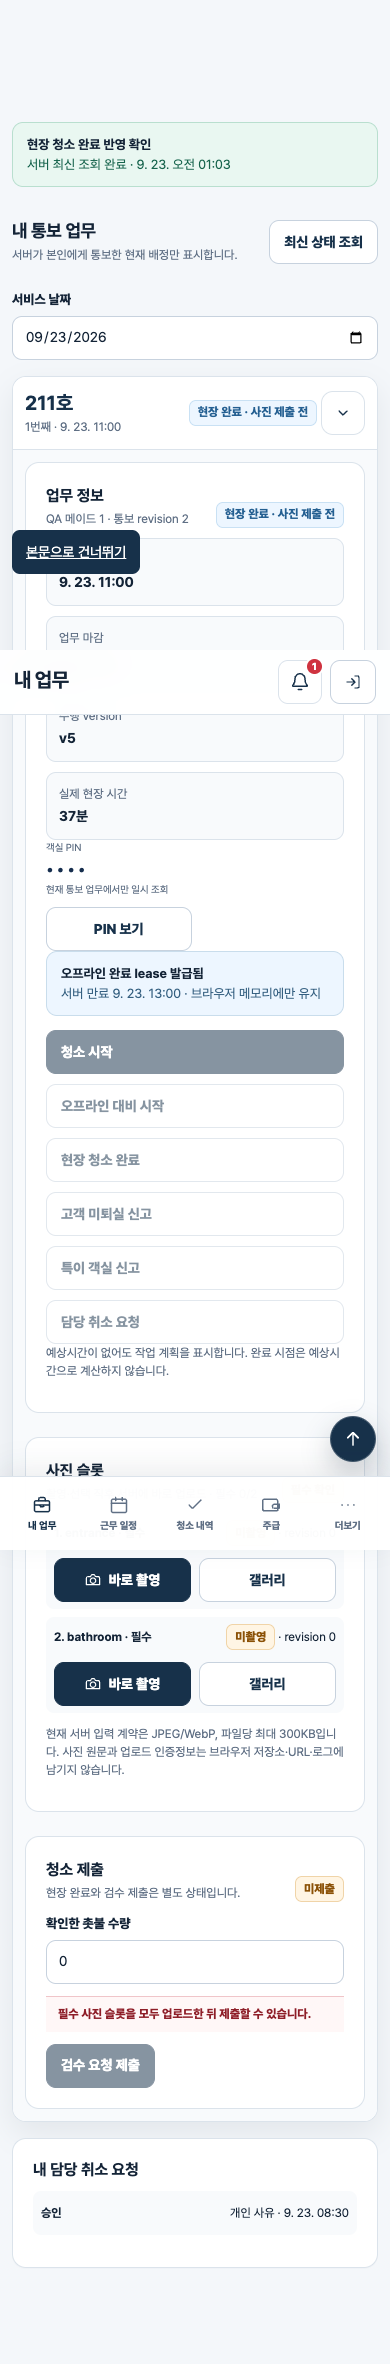
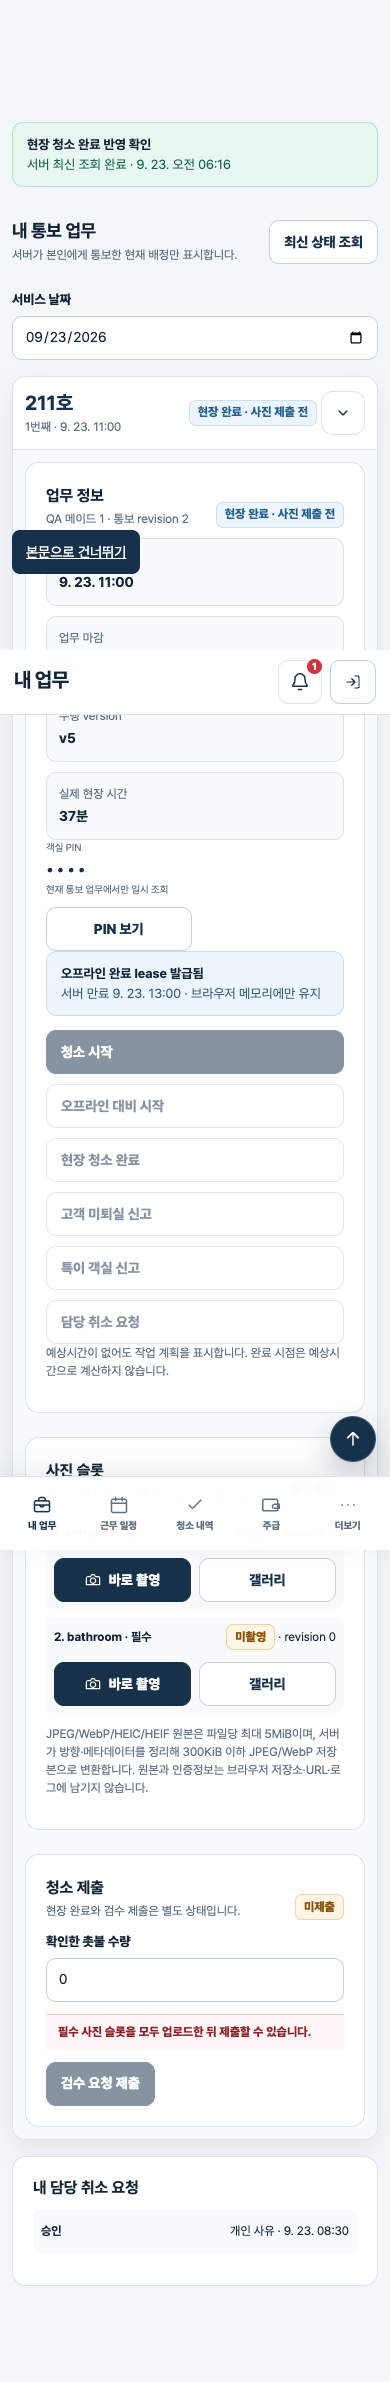
기능: 스마트폰 원본 사진 업로드 연결

diff --git a/WIREFRAME/index.html b/WIREFRAME/index.html
@@ -8729,6 +8729,8 @@
       const CLEANING_CHANGE_REASON_LABELS=Object.freeze({PERSONAL_REASON:'개인 사유',HEALTH_REASON:'건강 사유',MAID_UNAVAILABLE:'담당 불가',OPERATIONAL_CHANGE:'운영 변경',APPROVED:'관리자 승인',REJECTED:'관리자 거절'});
       const CLEANING_SUBMISSION_STATUS_LABELS=Object.freeze({submitted:'검수 요청됨',superseded:'이전 제출',approved:'검수 승인',rejected:'반려'});
       const CLEANING_PHOTO_STATUS_LABELS=Object.freeze({missing:'미촬영',cleared:'재촬영 필요',verified:'업로드 확인',pending:'처리 중',failed:'업로드 실패',purged:'보관 만료',expired:'보관 만료'});
+      const CLEANING_PHOTO_INPUT_MAX_BYTES=5*1024*1024;
+      const CLEANING_PHOTO_INPUT_MIMES=Object.freeze(['image/jpeg','image/webp','image/heic','image/heif']);
       Object.assign(API_ERROR_COPY,{ASSIGNMENT_ACCESS_REQUIRED:'청소 배정 관리 권한이 없습니다.',ATTEMPT_ACCESS_REQUIRED:'본인에게 통보된 작업만 확인할 수 있습니다.',MAID_REQUIRED:'메이드 계정으로만 수행할 수 있습니다.',ASSIGNMENT_NOT_NOTIFIED:'아직 통보되지 않은 배정은 시작할 수 없습니다.',ATTEMPT_INVALID_TRANSITION:'현재 작업 상태에서는 이 동작을 수행할 수 없습니다.',ATTEMPT_ACTIVATION_NOT_ALLOWED:'현재 작업은 시작할 수 없습니다.',CLEANING_SERVICE_DATE_NOT_DUE:'아직 이 작업의 서비스 날짜가 아닙니다.',CLEANING_SERVICE_DATE_EXPIRED:'작업 가능 날짜가 지났습니다. 관리자에게 일정을 확인해 주세요.',CLEANING_WINDOW_NOT_OPEN:'아직 청소 시작 가능 시각이 아닙니다.',CLEANING_WINDOW_EXPIRED:'업무 마감이 지나 새 상태 확인이 필요합니다.',CHECKOUT_NOT_MATERIALIZED:'체크아웃 상태가 확정되지 않아 작업을 시작할 수 없습니다.',ASSIGNMENT_IMPACT_CHANGED:'배정 확정 영향이 바뀌었습니다. 최신 영향을 다시 확인해 주세요.',ASSIGNMENT_DRAFT_STALE_SCHEDULE:'청소 일정이 바뀌었습니다. Preview부터 다시 확인해 주세요.',ASSIGNMENT_AVAILABILITY_STALE:'근무 가능일 version이 바뀌었습니다. 최신 상태를 다시 확인해 주세요.',ASSIGNMENT_MAID_UNAVAILABLE:'선택한 메이드는 해당 날짜에 근무할 수 없습니다.',ASSIGNMENT_COMMIT_NOT_ALLOWED:'현재 배정은 통보 확정할 수 없습니다.',ASSIGNMENT_PREVIEW_DURATION_POLICY_UNCONFIRMED:'예상시간 정책이 확정되지 않아 배정을 결정할 수 없습니다.',NOTIFICATION_ACCESS_REQUIRED:'이 알림을 확인할 권한이 없습니다.',NOTIFICATION_NOT_FOUND:'알림이 없거나 더 이상 접근할 수 없습니다.'});
       Object.assign(API_ERROR_COPY,{ASSIGNMENT_VERSION_CONFLICT:'배정 version이 바뀌었습니다. 최신 배정을 확인해 주세요.',ATTEMPT_VERSION_CONFLICT:'작업 수행 version이 바뀌었습니다. 최신 수행 상태를 확인해 주세요.',MAID_ALREADY_IN_PROGRESS:'이미 진행 중인 다른 작업이 있어 이 작업을 시작할 수 없습니다.',PREVIOUS_ROOM_WORKFLOW_ACTIVE:'같은 객실의 이전 작업이 아직 끝나지 않았습니다.',CLEANING_TARGET_NOT_FOUND:'청소 대상을 찾을 수 없습니다. 최신 계획을 확인해 주세요.',ASSIGNMENT_NOT_FOUND:'배정을 찾을 수 없습니다. 최신 목록을 확인해 주세요.',ASSIGNMENT_TARGET_STATE_INVALID:'현재 청소 대상 상태에서는 배정을 변경할 수 없습니다.',ASSIGNMENT_SEQUENCE_CONFLICT:'같은 담당자의 업무 순서가 충돌했습니다. 최신 순서를 확인해 주세요.',ASSIGNMENT_AVAILABILITY_REQUIRED:'담당자의 근무 가능일 제출이 필요합니다.',ASSIGNMENT_WINDOW_EXPIRED:'배정 작업 시간이 지나 최신 계획이 필요합니다.',PENDING_CHANGE_REQUEST_EXISTS:'이미 확인 대기 중인 담당 변경 요청이 있습니다.',CHANGE_REQUEST_NOT_FOUND:'담당 변경 요청이 없거나 더 이상 처리할 수 없습니다.',STALE_VERSION:'조회 뒤 서버 상태가 바뀌었습니다. 최신 내용을 다시 확인해 주세요.',CAPABILITY_ACCESS_REQUIRED:'현재 계정에 이 작업을 계속할 수행 권한이 없습니다.',ACCOUNT_EXECUTION_LIFECYCLE_REQUIRED:'계정 상태 변경 전에 진행 중 작업의 처리 방법을 결정해 주세요.',RECLEAN_MAID_IMMUTABLE:'재청소 담당자는 이 단계에서 변경할 수 없습니다.',INVALID_ATTEMPT_COMMAND:'현재 작업과 맞지 않는 수행 명령입니다.',ASSIGNMENT_PREVIEW_DATE_NOT_ALLOWED:'선택한 날짜는 배정 Preview를 만들 수 없습니다.',ASSIGNMENT_PREVIEW_LIMIT_EXCEEDED:'한 번에 계산할 수 있는 배정 대상을 초과했습니다.',CLEANING_TEMPLATE_NOT_CONFIGURED:'이 객실 유형의 청소 사진 슬롯이 아직 설정되지 않았습니다.',PIN_ENTITLEMENT_REQUIRED:'현재 통보된 본인 업무에서만 객실 PIN을 볼 수 있습니다.',PIN_ACCESS_REQUIRED:'현재 업무의 객실 PIN 조회 권한이 없습니다.',PIN_REVEAL_AUTHORIZATION_CHANGED:'PIN 조회 권한이 바뀌었습니다. 최신 업무를 다시 확인해 주세요.',ROOM_PIN_UNCONFIGURED:'이 객실에는 조회할 PIN이 아직 설정되지 않았습니다.',ROOM_PIN_MISMATCH_UNRESOLVED:'물리 도어락 PIN 확인이 끝난 뒤 조회할 수 있습니다.',ROOM_PIN_DECRYPT_FAILED:'객실 PIN을 안전하게 불러오지 못했습니다.'});
       const LIVE_CLEANING_PHOTO_URLS=new Set();
@@ -8795,8 +8797,8 @@
       function renderCleaningPhotoSlots(assignment,attempt){
         const slice=cleaningState(),payload=slice.photoSlots.get(attempt.attemptId),slots=payload?.slots||[],canUpload=['in_progress','field_completed','upload_pending','rejected'].includes(attempt.status),required=slots.filter(slot=>slot.required),ready=required.filter(slot=>slot.uploadStatus==='verified').length;
         const uploadAttrs=slot=>`data-cleaning-upload data-attempt="${esc(attempt.attemptId)}" data-assignment="${esc(assignment.assignmentId)}" data-assignment-revision="${Number(assignment.revision)}" data-slot="${esc(slot.slotId)}" data-photo-revision="${Number(slot.currentRevision)}"`;
-        const rows=slots.map(slot=>{const local=slice.uploadStates.get(slot.slotId),status=local?.status==='uploading'?'업로드 중':local?.status==='error'?'업로드 실패':CLEANING_PHOTO_STATUS_LABELS[slot.uploadStatus]||slot.uploadStatus,tone=slot.uploadStatus==='verified'?'green':local?.status==='error'||slot.uploadStatus==='failed'?'red':'amber',locked=!canUpload||slice.busy;return `<div class="rail-row" data-photo-slot="${esc(slot.slotId)}"><strong>${slot.displayOrder+1}. ${esc(slot.slotKey)} · ${slot.required?'필수':'선택'}</strong><span>${statusBadge(status,tone)} · revision ${Number(slot.currentRevision)}</span><div class="cleaning-photo-actions"><label class="btn btn-primary" style="display:inline-flex;align-items:center;justify-content:center;${locked?'pointer-events:none;opacity:.55':''}">${icon('camera','icon-sm')}${local?.status==='error'?'다시 촬영':'바로 촬영'}<input class="sr-only" type="file" accept="image/jpeg,image/webp" capture="environment" data-upload-source="camera" ${uploadAttrs(slot)} ${locked?'disabled':''}></label><label class="btn btn-outline" style="display:inline-flex;align-items:center;justify-content:center;${locked?'pointer-events:none;opacity:.55':''}">갤러리<input class="sr-only" type="file" accept="image/jpeg,image/webp" data-upload-source="gallery" ${uploadAttrs(slot)} ${locked?'disabled':''}></label></div>${local?.error?`<small role="alert">${esc(apiErrorCopy(local.error))}${local.error.requestId?` · 문의 번호 ${esc(local.error.requestId)}`:''}</small>`:''}</div>`;}).join('');
-        return `<section class="card cleaning-workflow-row" data-cleaning-photo-slots="${esc(attempt.attemptId)}"><div class="mobile-section-title"><div><h3>사진 슬롯</h3><p>촬영·선택 직후 서버에 바로 업로드 · 필수 ${ready}/${required.length}</p></div>${statusBadge(ready===required.length&&required.length?'필수 충족':'필수 확인',ready===required.length&&required.length?'green':'amber')}</div><div class="rail-list">${rows||'<div class="rail-row"><strong>사진 슬롯 없음</strong><span>서버에 설정된 슬롯이 없습니다.</span></div>'}</div><p class="audit-note">현재 서버 입력 계약은 JPEG/WebP, 파일당 최대 300KB입니다. 사진 원문과 업로드 인증정보는 브라우저 저장소·URL·로그에 남기지 않습니다.</p></section>`;
+        const rows=slots.map(slot=>{const local=slice.uploadStates.get(slot.slotId),status=local?.status==='uploading'?'업로드 중':local?.status==='error'?'업로드 실패':CLEANING_PHOTO_STATUS_LABELS[slot.uploadStatus]||slot.uploadStatus,tone=slot.uploadStatus==='verified'?'green':local?.status==='error'||slot.uploadStatus==='failed'?'red':'amber',locked=!canUpload||slice.busy;return `<div class="rail-row" data-photo-slot="${esc(slot.slotId)}"><strong>${slot.displayOrder+1}. ${esc(slot.slotKey)} · ${slot.required?'필수':'선택'}</strong><span>${statusBadge(status,tone)} · revision ${Number(slot.currentRevision)}</span><div class="cleaning-photo-actions"><label class="btn btn-primary" style="display:inline-flex;align-items:center;justify-content:center;${locked?'pointer-events:none;opacity:.55':''}">${icon('camera','icon-sm')}${local?.status==='error'?'다시 촬영':'바로 촬영'}<input class="sr-only" type="file" accept="image/jpeg,image/webp,image/heic,image/heif" capture="environment" data-upload-source="camera" ${uploadAttrs(slot)} ${locked?'disabled':''}></label><label class="btn btn-outline" style="display:inline-flex;align-items:center;justify-content:center;${locked?'pointer-events:none;opacity:.55':''}">갤러리<input class="sr-only" type="file" accept="image/jpeg,image/webp,image/heic,image/heif" data-upload-source="gallery" ${uploadAttrs(slot)} ${locked?'disabled':''}></label></div>${local?.error?`<small role="alert">${esc(apiErrorCopy(local.error))}${local.error.requestId?` · 문의 번호 ${esc(local.error.requestId)}`:''}</small>`:''}</div>`;}).join('');
+        return `<section class="card cleaning-workflow-row" data-cleaning-photo-slots="${esc(attempt.attemptId)}"><div class="mobile-section-title"><div><h3>사진 슬롯</h3><p>촬영·선택 직후 서버에 바로 업로드 · 필수 ${ready}/${required.length}</p></div>${statusBadge(ready===required.length&&required.length?'필수 충족':'필수 확인',ready===required.length&&required.length?'green':'amber')}</div><div class="rail-list">${rows||'<div class="rail-row"><strong>사진 슬롯 없음</strong><span>서버에 설정된 슬롯이 없습니다.</span></div>'}</div><p class="audit-note">JPEG/WebP/HEIC/HEIF 원본은 파일당 최대 5MiB이며, 서버가 방향·메타데이터를 정리해 300KiB 이하 JPEG/WebP 저장본으로 변환합니다. 원본과 인증정보는 브라우저 저장소·URL·로그에 남기지 않습니다.</p></section>`;
       }
       function renderLiveMaidPinManager(assignment){
         const slice=cleaningState(),visible=livePinRevealSecret?.roomId===assignment.roomId&&livePinRevealSecret?.assignmentId===assignment.assignmentId&&livePinRevealSecret.expiresAt>Date.now(),available=!!assignment.roomId&&assignment.isCurrent===true&&!!assignment.notifiedAt,busy=slice.busy||slice.status!=='ready';
@@ -8964,7 +8966,7 @@
       }
       async function uploadLiveCleaningPhoto(input){
         if(!cleaningActor('maid')||cleaningState().busy)return;const file=input.files?.[0];input.value='';if(!file)return;const slice=cleaningState(),slotId=input.dataset.slot;
-        if(!['image/jpeg','image/webp'].includes(file.type)||file.size>307200){const error=new ApiRequestError('invalid photo',{status:file.size>307200?413:415,code:'VALIDATION_ERROR',serverMessage:file.size>307200?'사진 파일은 300KB 이하여야 합니다.':'JPEG 또는 WebP 사진만 업로드할 수 있습니다.'});slice.uploadStates.set(slotId,{status:'error',error});slice.error=error;render();return;}
+        if(!CLEANING_PHOTO_INPUT_MIMES.includes(file.type)||file.size>CLEANING_PHOTO_INPUT_MAX_BYTES){const error=new ApiRequestError('invalid photo',{status:file.size>CLEANING_PHOTO_INPUT_MAX_BYTES?413:415,code:'VALIDATION_ERROR',serverMessage:file.size>CLEANING_PHOTO_INPUT_MAX_BYTES?'사진 원본은 5MiB 이하여야 합니다.':'JPEG, WebP, HEIC 또는 HEIF 사진만 업로드할 수 있습니다.'});slice.uploadStates.set(slotId,{status:'error',error});slice.error=error;render();return;}
         slice.uploadStates.set(slotId,{status:'uploading',error:null});render();const query=new URLSearchParams({assignmentId:input.dataset.assignment,assignmentRevision:input.dataset.assignmentRevision,expectedPhotoRevision:input.dataset.photoRevision}),data=await runLiveCleaningMutation({path:`/v1/attempts/${encodeURIComponent(input.dataset.attempt)}/photo-slots/${encodeURIComponent(slotId)}/upload?${query}`,rawBody:file,contentType:file.type,label:input.dataset.uploadSource==='camera'?'촬영 사진 업로드':'갤러리 사진 업로드'});
         if(data){slice.uploadStates.delete(slotId);}else slice.uploadStates.set(slotId,{status:'error',error:slice.error});render();
       }

diff --git a/WIREFRAME/sw.js b/WIREFRAME/sw.js
@@ -1,6 +1,6 @@
 "use strict";
 
-const SW_VERSION = "2026-09-23-5";
+const SW_VERSION = "2026-09-23-6";
 const CACHE_PREFIX = "castle-the-art-shell-";
 const CACHE_NAME = `${CACHE_PREFIX}${SW_VERSION}`;
 const APP_DOCUMENT_URL = new URL("./index.html", self.location.href);

diff --git a/DOCS/23_CLEANING_API_INTEGRATION.md b/DOCS/23_CLEANING_API_INTEGRATION.md
@@ -65,7 +65,7 @@ RMS_RUNTIME_MODE=live
 
 사진 UI는 attempt 응답의 슬롯 배열을 그대로 사용한다. 필수 목록을 프런트에서 만들지 않는다. 객실별 수행 영역은 독립적으로 접고 펼칠 수 있으며, `바로 촬영`은 지원 모바일의 후면 카메라 힌트, `갤러리`는 저장된 파일 선택으로 분리한다. 두 경로 모두 선택 직후 같은 slot revision CAS로 업로드하고, 성공 응답 뒤 슬롯을 다시 읽어 `verified`일 때만 충족으로 본다. 모든 필수 슬롯이 verified이고 수행 상태가 제출 가능할 때만 submission을 만든다. 제출 뒤에는 `관리자 검수 대기`로 표시한다.
 
-운영 OpenAPI v0.5.1의 현재 입력 계약은 JPEG/WebP 원문 307,200바이트 이하이다. 프런트는 이 상한을 넘는 파일을 전송하지 않는다. 사용자가 확정한 목표는 안전한 스마트폰 원본 입력을 서버가 방향 보정·메타데이터 제거·해상도/품질 조정해 300KB 이하 저장본으로 만드는 것이지만, 백엔드 issue `wrongstory/room-management-system-backend#256`의 새 입력 상한·MIME·자원 제한·OpenAPI가 병합·배포되기 전에는 원본 업로드가 지원된 것으로 간주하지 않는다.
+사진 업로드 입력 계약은 JPEG/WebP/HEIC/HEIF raw body 최대 5MiB다. 프런트는 브라우저가 제공한 실제 MIME을 그대로 보내고, 5MiB를 넘거나 MIME을 확인할 수 없는 원본은 API 호출 전에 안내한다. 서버는 권한·quota admission 뒤 방향 보정·메타데이터 제거·해상도/품질 조정을 수행하고 JPEG/WebP 300KiB 이하 저장본만 Drive와 DB 원장에 연결한다. 프런트는 원본을 브라우저 저장소·URL·로그에 남기지 않으며 성공 응답 뒤 슬롯을 다시 읽어 `verified`일 때만 완료로 본다.
 
 ## 오류·재시도·권한 상태
 
